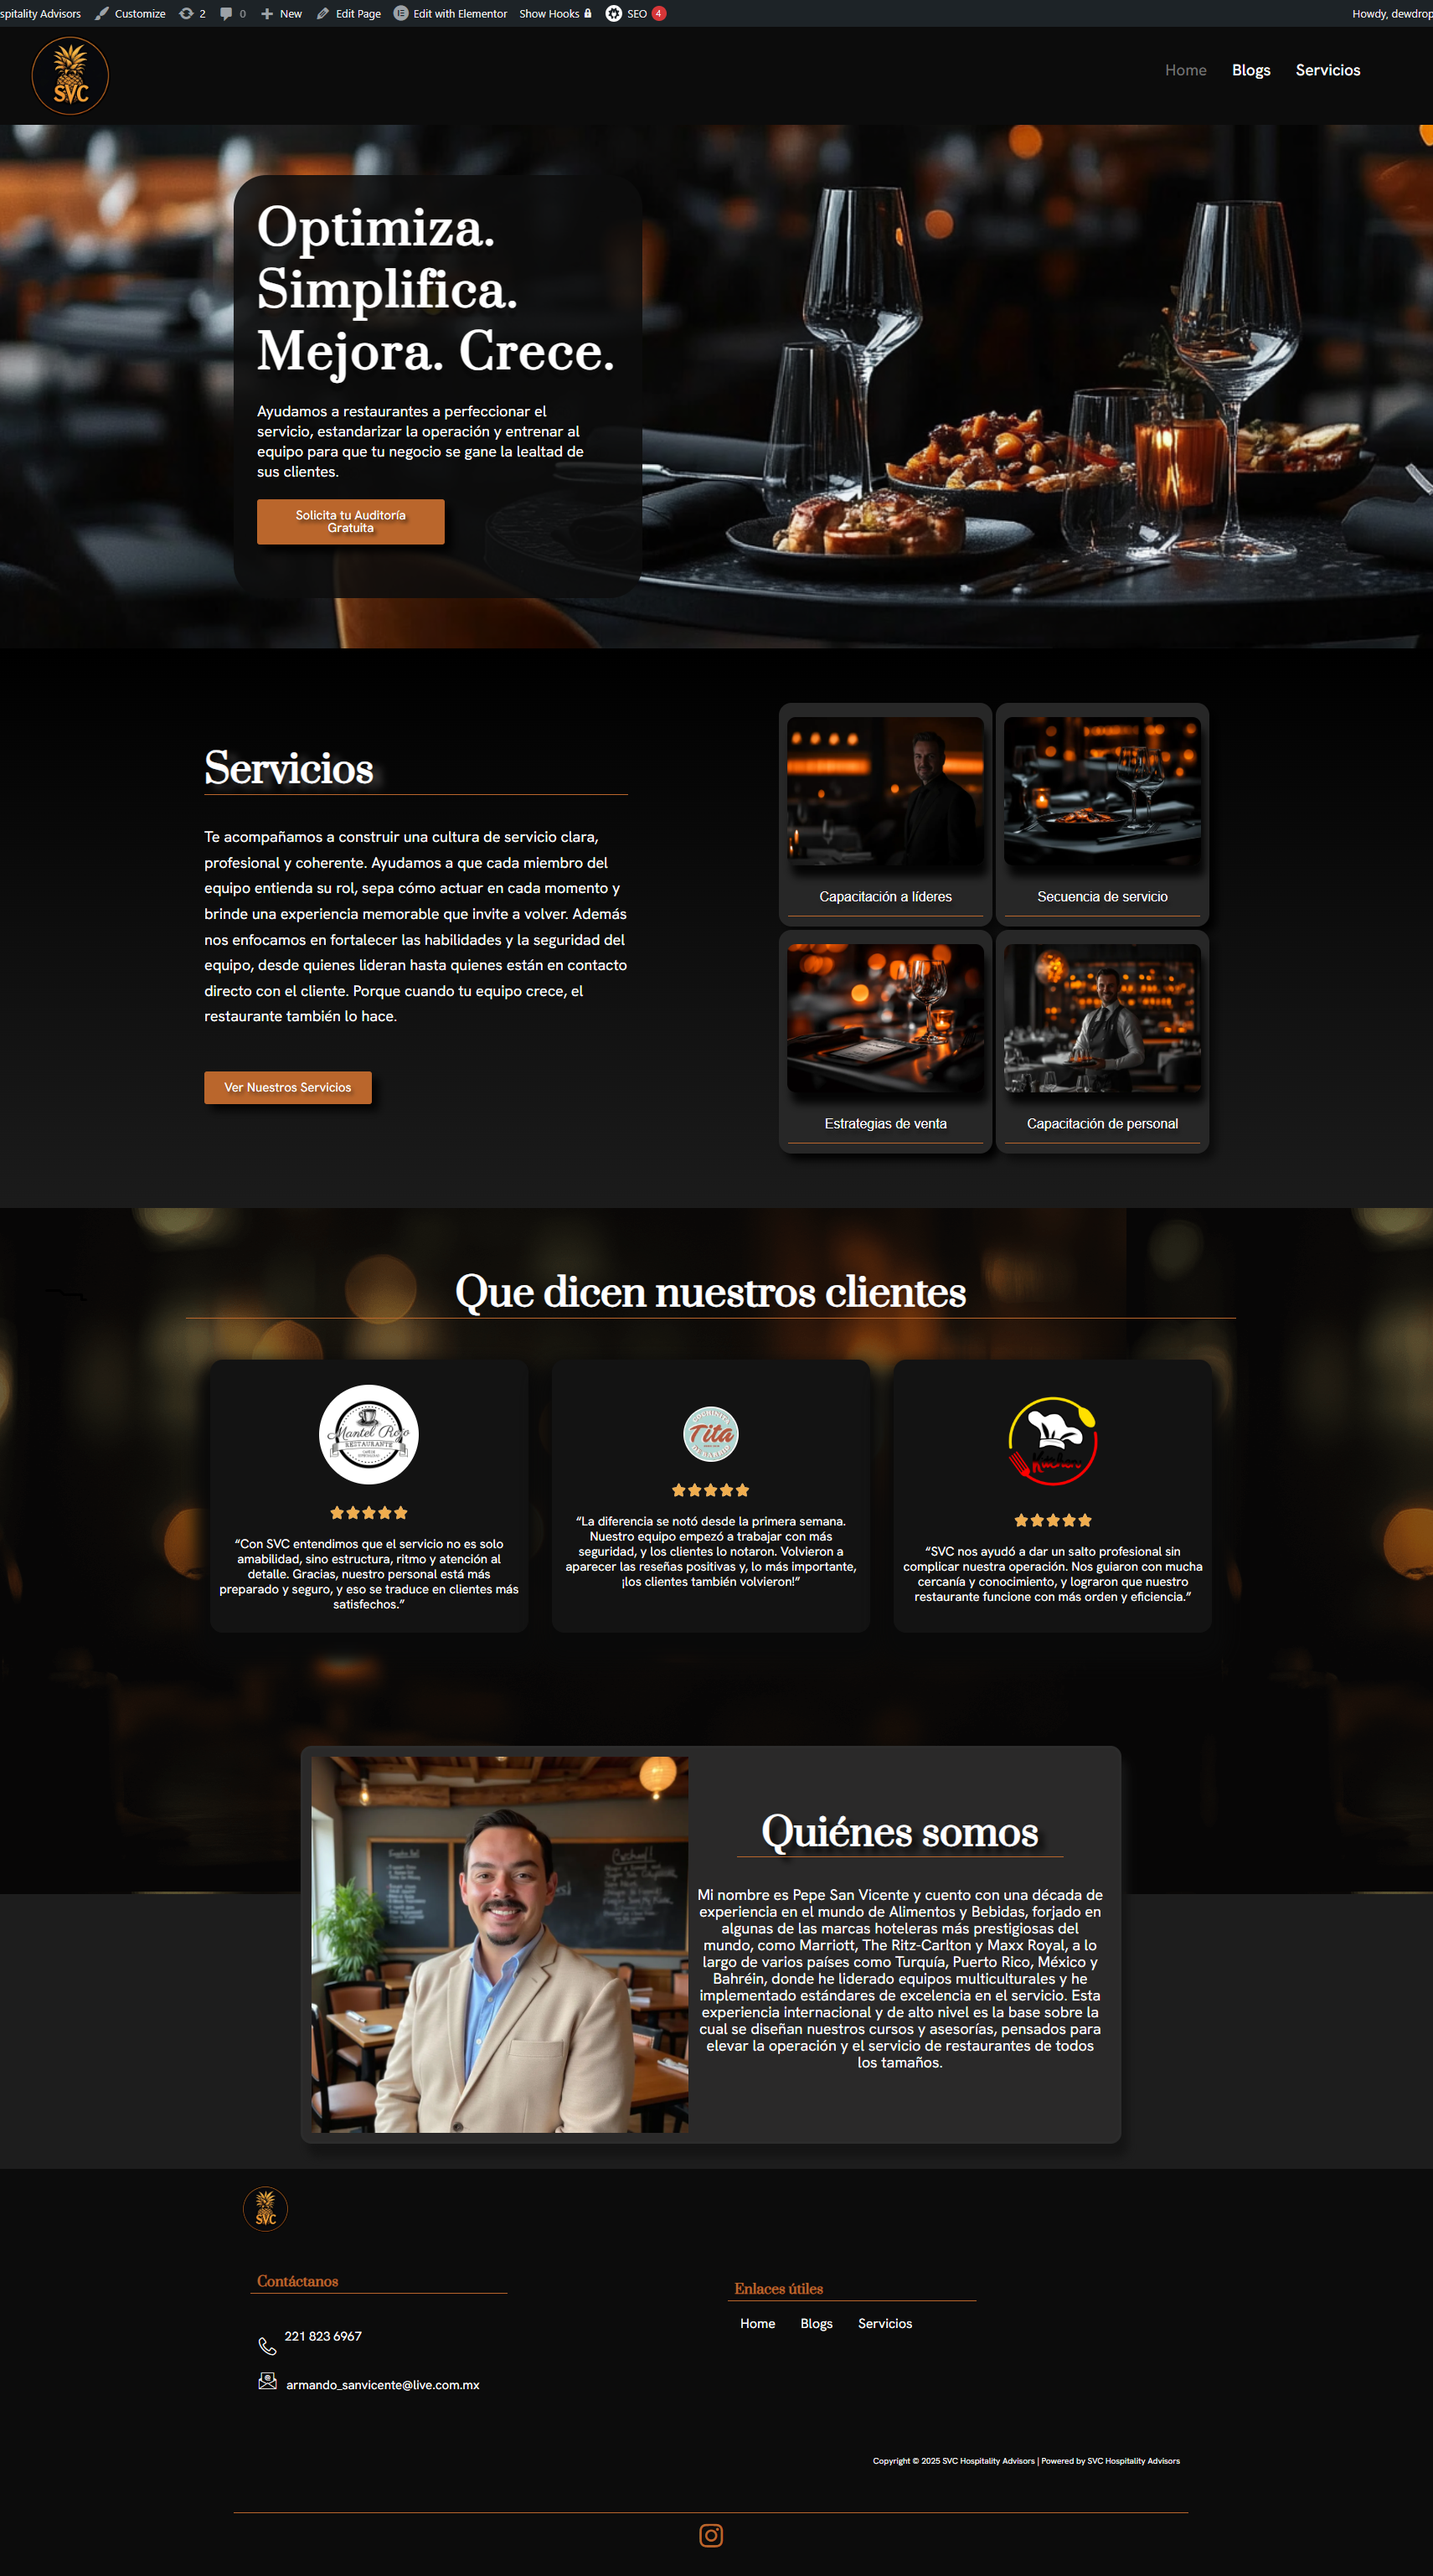
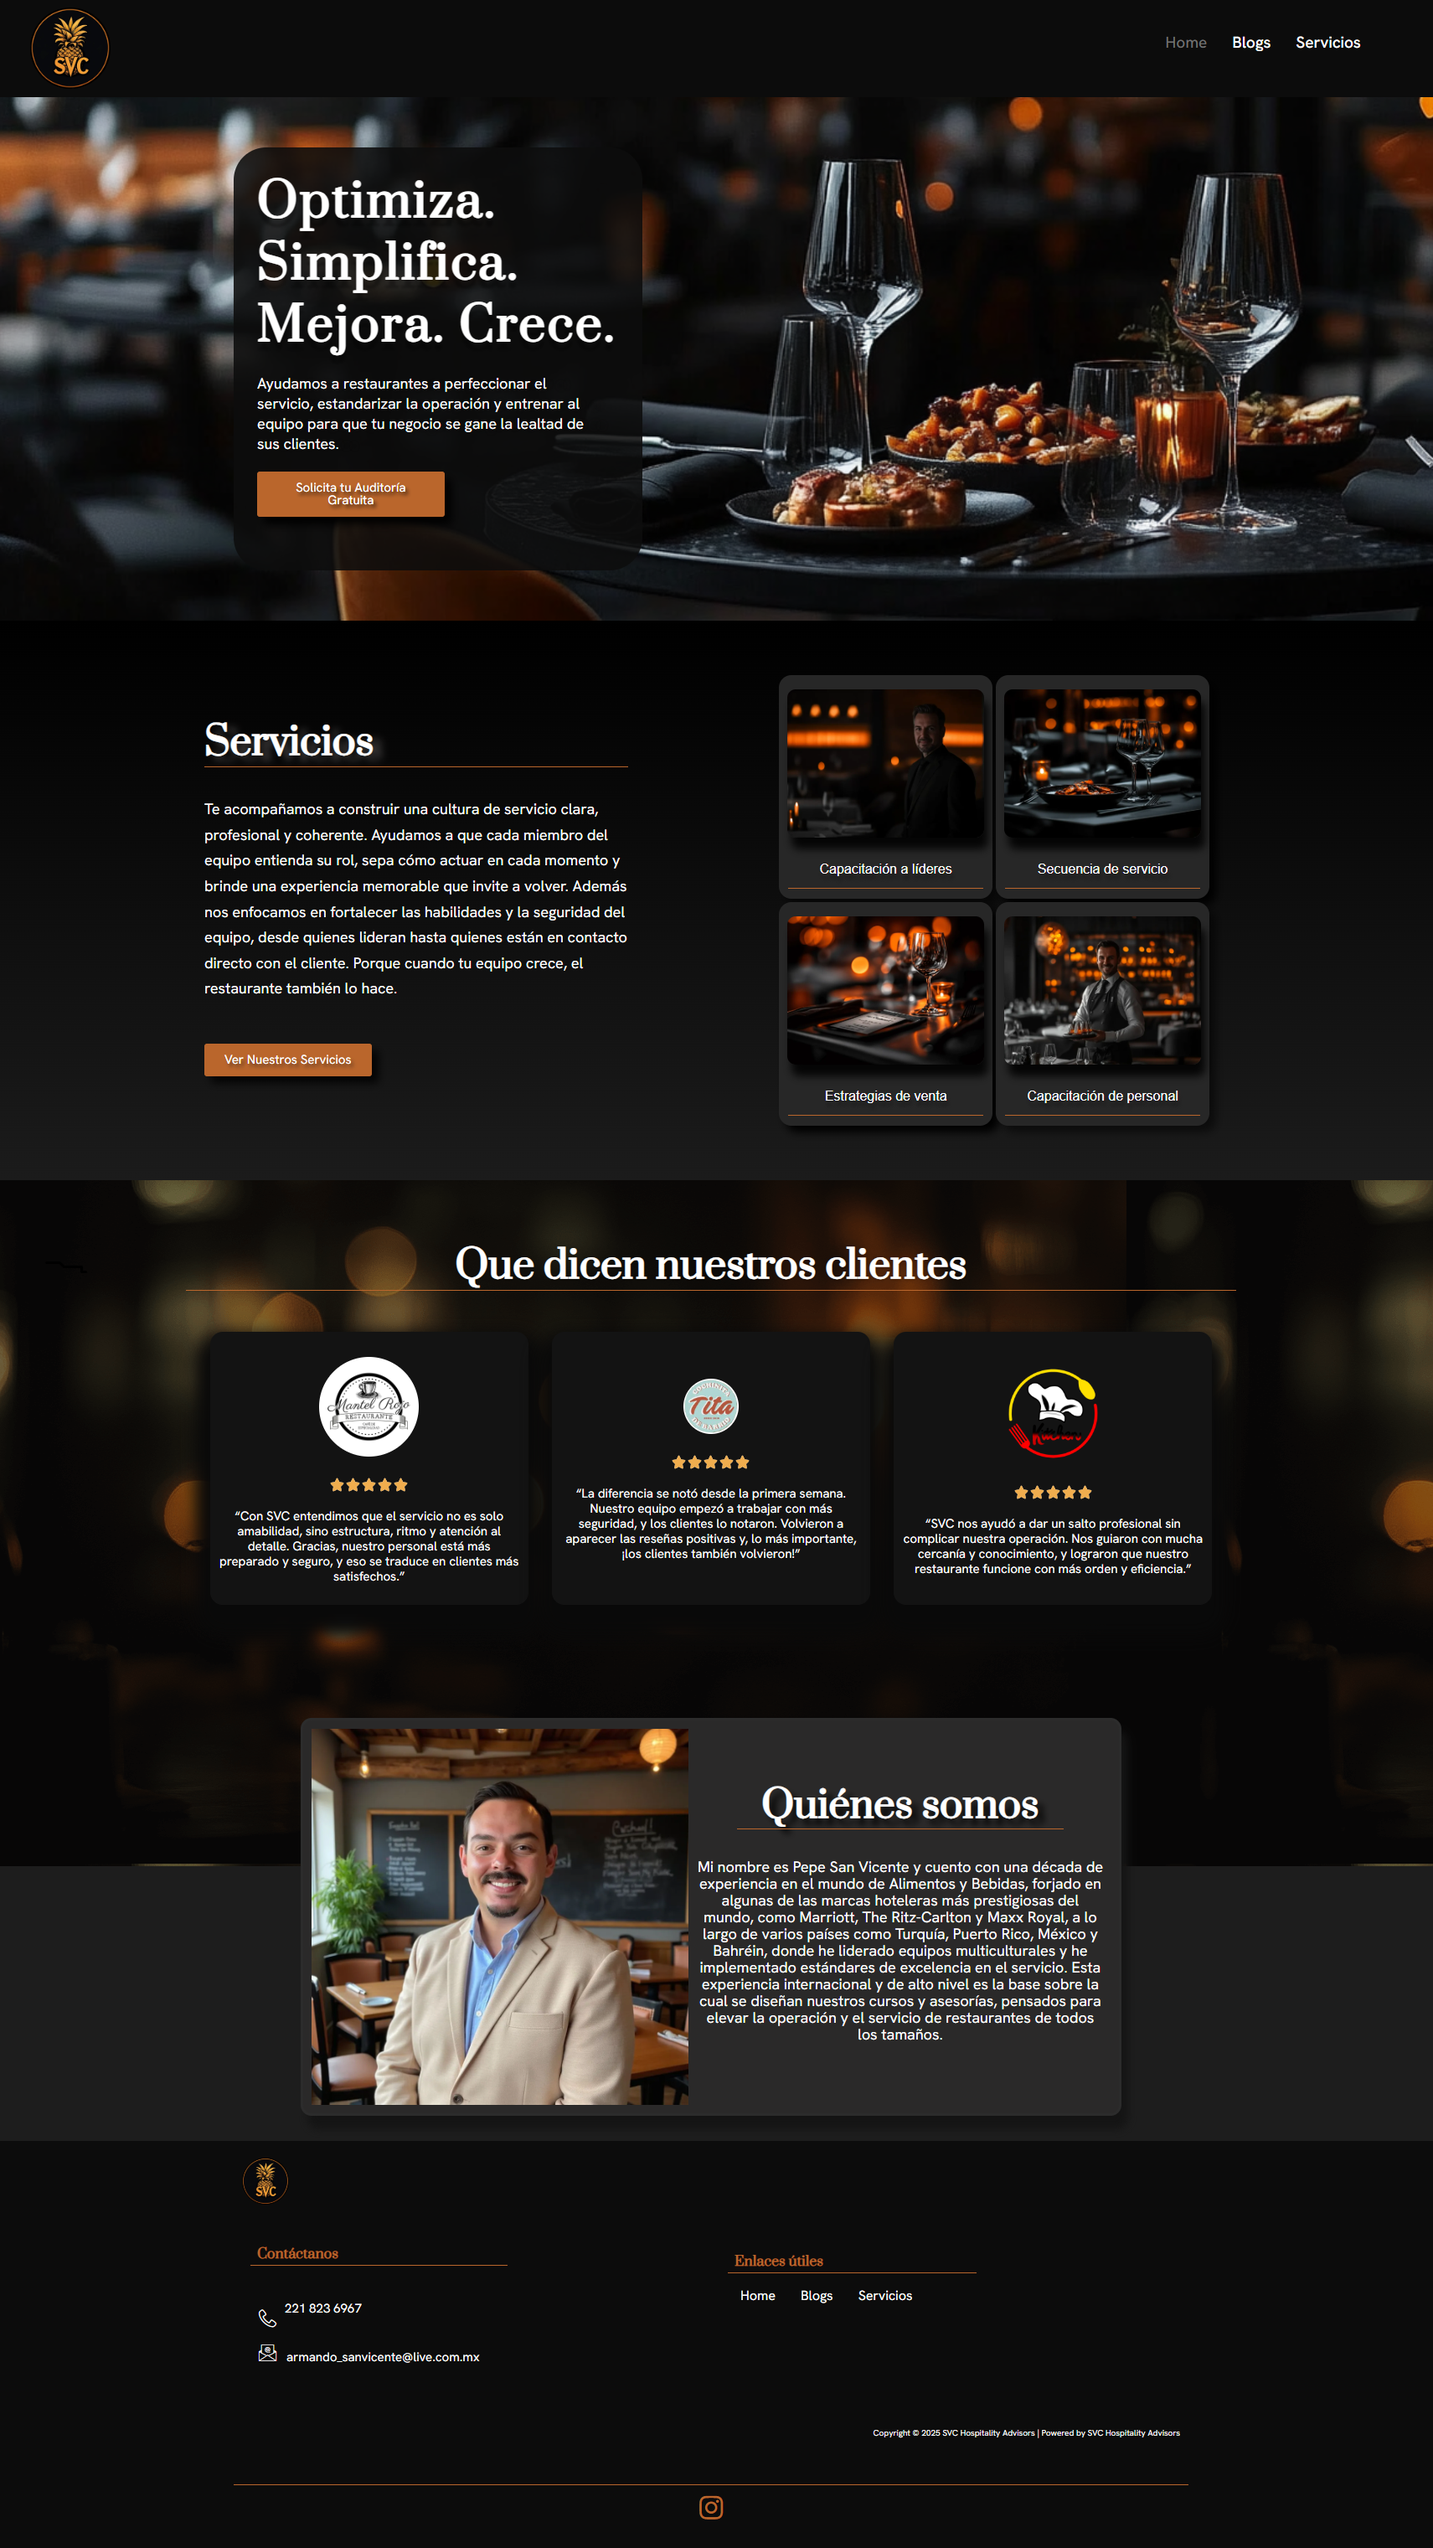
work/restaurant section mv done

diff --git a/Portfolio/style.css b/Portfolio/style.css
@@ -85,6 +85,24 @@ html, body {
     font-weight: 400;
 }
 
+    .restaurant-title-label {
+        margin-left: 1em;
+        margin-top: 1em;
+    }
+    
+
+    
+    .restaurant-left {
+        position: relative;
+    }
+    
+    .restaurant-left > * {
+        position: relative;
+        z-index: 1;
+    }
+
+
+
 .name {
     font-family: var(--font-display);
     font-size: clamp(3.6rem, 10.08vw, 8.64rem);
@@ -101,7 +119,7 @@ html, body {
     border-top: none;
     border-bottom: 2px solid var(--color-secondary);
     padding-top: 0;
-    padding-bottom: 0.2em;
+    padding-bottom: 0.2em; 
     margin-top: auto;
     margin-bottom: 2em;
     font-family: var(--font-primary);
@@ -180,6 +198,14 @@ html, body {
     font-size: var(--font-size-xl);
     color: var(--color-secondary);
     margin: 0 0 1.2em 0;
+    font-family: var(--font-primary);
+    line-height: 1.6;
+}
+
+.work-desc {
+    font-size: var(--font-size-xl);
+    color: var(--color-secondary);
+    margin: 0 0 0em 0;
     font-family: var(--font-primary);
     line-height: 1.6;
 }
@@ -897,8 +923,8 @@ html, body {
         height: 36vw;
         left: -18vw;
         bottom: -18vw;
-    }
-    
+}
+
     /* Travel Section */
     .travel {
         flex-direction: column;
@@ -949,15 +975,15 @@ html, body {
         flex-direction: column;
         height: 100vh;
         min-height: 100vh;
-        display: flex;
+    display: flex;
         
     }
     .main-left {
         padding: 8vw 6vw 0vw 6vw;
         justify-content: flex-start;
         flex: 1 1 0;
-        display: flex;
-        flex-direction: column;
+    display: flex;
+    flex-direction: column;
         min-height: 0;
     }
     .main-right {
@@ -1010,13 +1036,11 @@ html, body {
     }
     .about-quote {
         font-size: 1.8rem;
-        margin: 1em 0;
+        margin: 1em 0 2.5em 0;
         line-height: 1.3;
     }
     .about-desc {
-        font-size: 1.1rem;
-        margin: 0 0 1em 0;
-        line-height: 1.5;
+        display: none;
     }
     .about-right::before {
         width: 50vw;
@@ -1043,26 +1067,33 @@ html, body {
     .work-laptop {
         width: 100vw;
         max-width: 100vw;
-        margin: 0 0 2vw 0;
+        margin: 2em 0 2vw 0;
+        box-shadow: 0 4px 20px rgba(0, 0, 0, 0.15);
     }
     .work-fullpage {
         width: 90vw;
         max-width: 90vw;
-        margin: 0 0 2vw 0;
+        margin: -11em auto 2vw auto;
     }
-    .work-btn {
-        width: 100%;
+        .work-btn {
+        width: 40%;
         font-size: 1rem;
         padding: 1em 0;
-        margin: 2em 0 0 0;
+        margin: 0 1em 10em 0;
         text-align: center;
+        align-self: flex-end;
     }
     .work::after {
-        width: 50vw;
-        height: 100vw;
-        right: -25vw;
-        border-top-left-radius: 25vw 50vw;
-        border-bottom-left-radius: 25vw 50vw;
+        width: 60vw;
+        height: 60vw;
+        top: -30vw;
+        left: -30vw;
+        right: auto;
+        border-radius: 50%;
+        border-top-left-radius: 50%;
+        border-bottom-left-radius: 50%;
+        border-top-right-radius: 50%;
+        border-bottom-right-radius: 50%;
     }
     
     /* Social Media Section */
@@ -1086,7 +1117,7 @@ html, body {
     }
     .socialmedia-desc {
         padding-right: 0;
-        font-size: 1.1rem;
+    font-size: 1.1rem;
         line-height: 1.5;
     }
     .socialmedia-circle {
@@ -1133,17 +1164,17 @@ html, body {
         font-size: 0.9rem;
         margin-top: 1em;
     }
-    .carousel-nav {
+.carousel-nav {
         width: 40px;
         height: 40px;
         font-size: 1.5rem;
     }
     .carousel-btn-prev {
-        left: -60px;
-    }
+    left: -60px;
+}
     .carousel-btn-next {
-        right: -60px;
-    }
+    right: -60px;
+}
     
     /* Travel Section */
     .travel {
@@ -1169,6 +1200,14 @@ html, body {
         margin: 0 0 1.5em 0;
         line-height: 1.5;
         max-width: 100%;
+    }
+    
+    .work-desc {
+        font-size: 1.1rem;
+        margin: 0 0 1.5em 0;
+        line-height: 1.5;
+        max-width: 100%;
+        padding: 1em;
     }
     .travel-devices {
         width: 100vw;

diff --git a/Portfolio/index.html b/Portfolio/index.html
@@ -43,9 +43,9 @@
         <!-- Restaurant Project -->
         <section class="restaurant">
             <div class="restaurant-left">
-                <span class="title-label">TRABAJO</span>
+                <span class="title-label restaurant-title-label">TRABAJO</span>
                 <img src="Images/laptop-mockup.png" alt="Laptop mockup" class="work-laptop">
-                <p class="about-desc">Diseñé y desarrollé este sitio web para una consultoría especializada en mejorar la operación y experiencia de restaurantes.</p>
+                <p class="work-desc">Diseñé y desarrollé este sitio web para una consultoría especializada en mejorar la operación y experiencia de restaurantes.</p>
                 <a href="https://svchospitalityadvisors.com/" class="work-btn" target="_blank" rel="noopener">IR AL SITIO</a>
             </div>
             <div class="restaurant-right">
